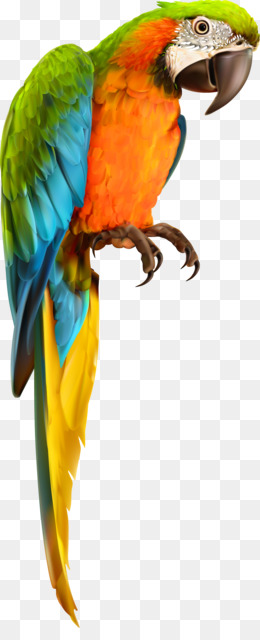
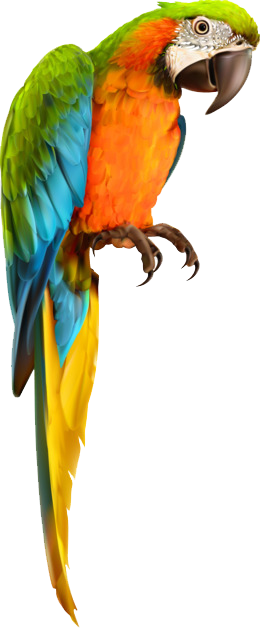
platforms have random colors/parrot is scaled

diff --git a/doodlebird/app.js b/doodlebird/app.js
@@ -42,10 +42,13 @@ document.addEventListener('DOMContentLoaded', ()=>{
             this.visual = document.createElement('div')
 
             const rgb = randomRBG()
+            const colors = `rgb(${rgb[0]},${rgb[1]},${rgb[2]})`
             const visual = this.visual
             visual.classList.add('platform')
             visual.style.left = this.left + 'px'
             visual.style.bottom = this.bottom + 'px'
+            console.log(colors)
+            visual.style.setProperty('--current-value', colors)
             grid.appendChild(visual)
         }
     }
@@ -96,7 +99,7 @@ document.addEventListener('DOMContentLoaded', ()=>{
             doodlerBottomSpace -= 5
             doodler.style.bottom = doodlerBottomSpace + 'px'
             if (doodlerBottomSpace <= 0){
-                gameOver()
+                //gameOver()
             }
             
             platforms.forEach(platform => {

diff --git a/doodlebird/style.css b/doodlebird/style.css
@@ -4,20 +4,23 @@
 }
     
     .grid {
-        width: 400px;
+        width: 800px;
         height: 600px;
         background-image: url('jungle.png');
         position: relative;
-        font-size: 200px;
+        /*font-size: 200px;
         text-align: center;
-        
+         */
+        background-color: green;
         
     }
     
     .doodler{
         width: 87px;
-        height: 85px;
+        height: 155px;
         background-image: url('parrot.png');
+        background-repeat: no-repeat;
+        background-size: 65px;
         position: absolute;
 }
 
